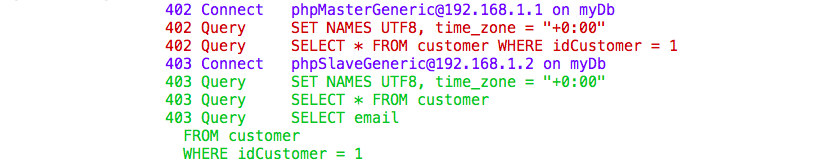
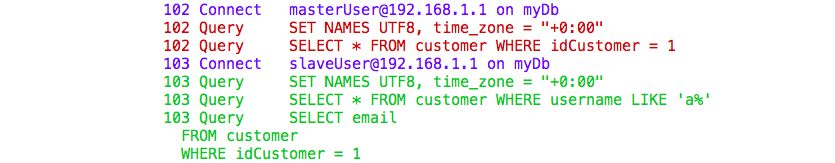
fix bug for master detection and updated screenshot

Changed region(s): [[0.1827, 0.0, 0.8526, 0.6442], [0.1827, 0.4601, 0.4568, 0.9816], [0.335, 0.6748, 0.4872, 0.7669]]

diff --git a/tests/MysqlGeneralLogColorizer/Console/ApplicationTest.php b/tests/MysqlGeneralLogColorizer/Console/ApplicationTest.php
@@ -23,7 +23,7 @@ class ApplicationTest extends \PHPUnit_Framework_TestCase
         $app->colorize($filePointer);
     }
 
-    public function testEnd2EndWithSimpleExampleFile()
+    public function testEnd2EndOneMasterOneSlaveWithDifferentUsername()
     {
         $filePointer = fopen(__DIR__ . '/../../fixtures/oneMasterOneSlaveDifferentUsername.txt', 'r');
         
@@ -32,6 +32,18 @@ class ApplicationTest extends \PHPUnit_Framework_TestCase
         
         $app = new Console\Application();
         $app->colorize($filePointer);
+    }
+
+    public function testEnd2EndOneMasterOneSlaveWithDifferentIpSameUsername()
+    {
+        $masterPattern = '@127.0.0.1';
+        $filePointer = fopen(__DIR__ . '/../../fixtures/oneMasterOneSlaveDifferentIp.txt', 'r');
+        
+        $outputString = file_get_contents(__DIR__ . '/../../fixtures/oneMasterOneSlaveDifferentIp.txt.expected');
+        $this->expectOutputString($outputString);
+        
+        $app = new Console\Application();
+        $app->colorize($filePointer, $masterPattern);
     }
 
     public static function masterOptions()

diff --git a/src/MysqlGeneralLogColorizer/Console/Application.php b/src/MysqlGeneralLogColorizer/Console/Application.php
@@ -84,8 +84,9 @@ class Application
     public function run()
     {
         $options = $this->handleArguments();
+        $masterPattern = isset($options['masterPattern']) ? $options['masterPattern'] : null;
         $stdin = fopen('php://stdin', 'r');
-        $this->colorize($stdin);
+        $this->colorize($stdin, $masterPattern);
     }
 }
 

diff --git a/README.md b/README.md
@@ -16,7 +16,7 @@ This tool is a log colorizer for [MySQL General Query Log](http://dev.mysql.com/
 
 ![Colorizer example](/docs/screenshot.png?raw=true "Example of a colorized log")
 
-To understand if a query is done on a master connection the tool by default search for "master" keyword in the username logged with *Connect*, you can specify another username or IP/host using the *-m* switch.
+To understand if a query is done on a master connection the tool by default search for "master" keyword in the username logged with *Connect*, you can specify another username or IP/host using the *-m* argument.
 
 Install
 -------
@@ -32,7 +32,7 @@ sudo mv mysql-general-log-colorizer.phar /usr/local/bin/mysql-general-log-colori
 Usage
 -----
 
-First of all enable the MySQL General Log that logs every query see [MySQL General Query Log](http://dev.mysql.com/doc/refman/5.6/en/query-log.html)
+First of all enable the MySQL General Log that logs every query, see [MySQL General Query Log](http://dev.mysql.com/doc/refman/5.6/en/query-log.html)
 
 ####For MySQL >=  5.1.29
 
@@ -65,6 +65,11 @@ SET GLOBAL log='/var/log/mysql-general-query.log';
 It simple reads from stdin
 ```
 tail -f /var/log/mysql-general-query.log | mysql-general-log-colorizer
+```
+
+To specify the master username or IP/host use -m
+```
+tail -f /var/log/mysql-general-query.log | mysql-general-log-colorizer -m yourMasterUsername
 ```
 
 TODO
